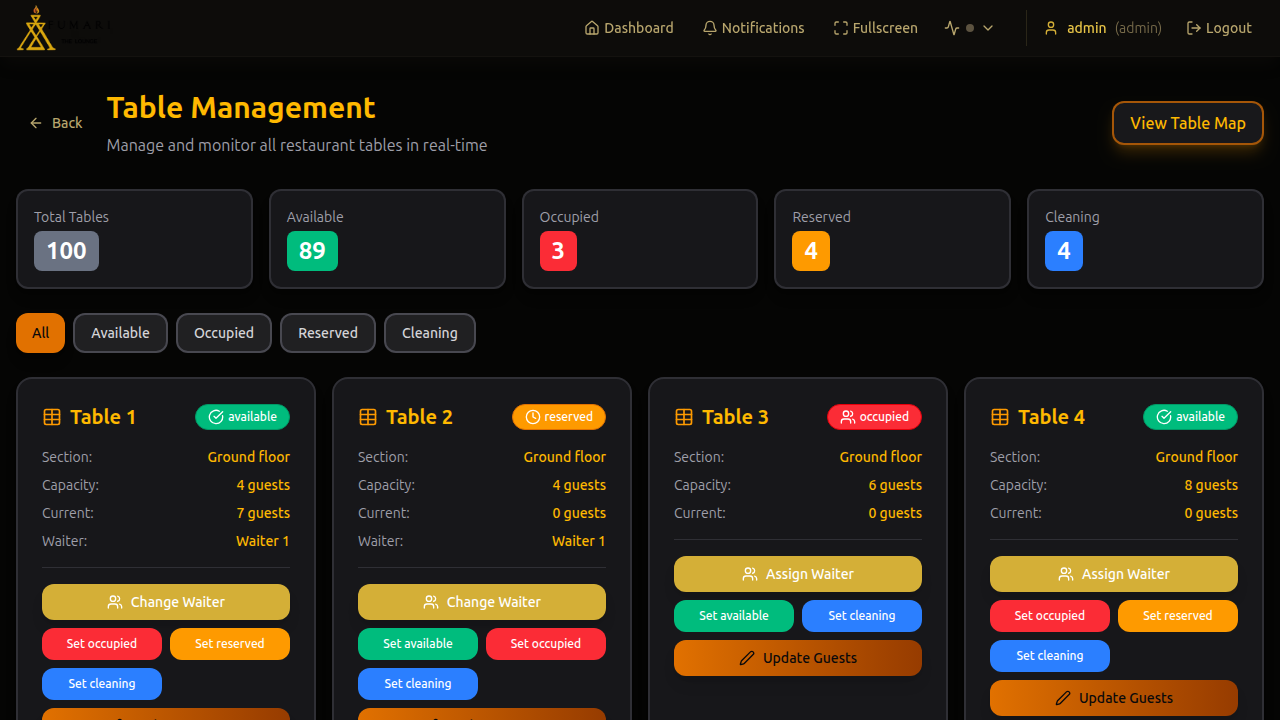
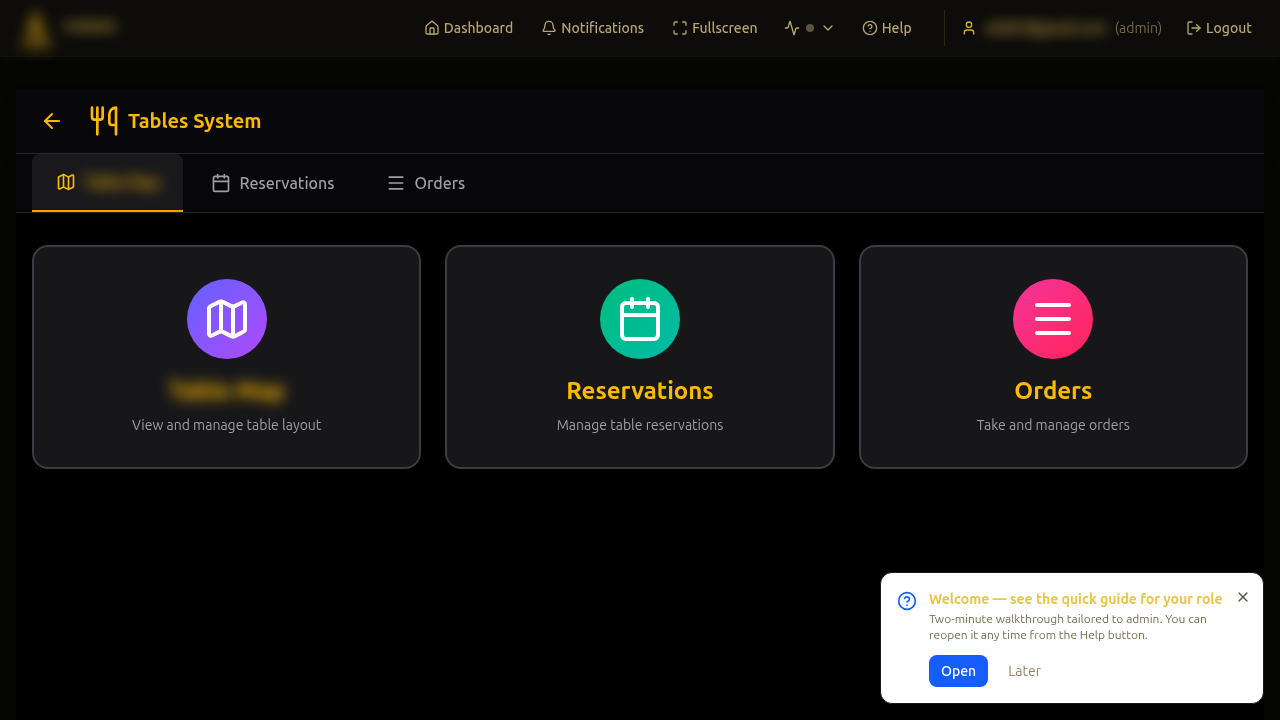
Upgrade Fumari RMS with blurred multi-section demos.
Capture fumarisystem.com dashboards with privacy blur on brand and PII, and expand the case study stack and gallery.

diff --git a/src/content/projects.ts b/src/content/projects.ts
@@ -269,29 +269,90 @@ export const projects: Project[] = [
     shortTitle: "Fumari Restaurant System",
     role: "Full Stack Developer",
     summary:
-      "Restaurant operations platform with authenticated admin dashboards for tables, floor operations, and staff workflows.",
+      "Full venue operations platform: floor tables, orders, multi-area kitchen displays, staff/HR scheduling, and HMRC-oriented accounting — delivered as a PWA on venue Docker Compose with on-LAN thermal printing.",
     problem:
-      "Venues need reliable digital tooling for table management and back-of-house coordination beyond paper floor plans.",
+      "Hospitality venues need one system for service floor, kitchen routing, workforce, payments messaging, and bookkeeping instead of fragmented tills, spreadsheets, and printers.",
     outcome:
-      "Built an authenticated restaurant management dashboard covering tables and operational views for live service environments.",
-    technologies: ["Next.js", "React", "TypeScript", "Auth", "Dashboard UI"],
+      "Shipped Browser/PWA → Next.js (React + API) → PostgreSQL (Prisma), with Stripe/SumUp, Twilio, optional Redis, Cloudflare Tunnel, and an ESC/POS print-agent for thermal printers on the LAN.",
+    technologies: [
+      "Next.js",
+      "React",
+      "TypeScript",
+      "Tailwind CSS",
+      "Zustand",
+      "Prisma",
+      "PostgreSQL",
+      "Zod",
+      "JWT",
+      "Stripe",
+      "SumUp",
+      "Twilio",
+      "Nodemailer",
+      "Recharts",
+      "jsPDF",
+      "Docker",
+      "Cloudflare Tunnel",
+      "Tailscale",
+      "ESC/POS",
+      "Vitest",
+    ],
     features: [
-      "Staff authentication",
-      "Tables / floor dashboard",
-      "Operational admin views",
-      "Hospitality-focused UX",
+      "JWT staff authentication",
+      "Tables / floor system",
+      "Orders and multi-kitchen displays",
+      "Staff, HR, and scheduling",
+      "Accounting and reports",
+      "Stripe / SumUp payments + Twilio SMS",
+      "On-LAN ESC/POS print agent",
+      "Docker Compose venue deployment",
     ],
     images: [
       {
         src: "/projects/fumari-rms/hero.png",
-        alt: "Fumari restaurant management dashboard",
+        alt: "Tables system dashboard",
       },
       {
-        src: "/projects/fumari-rms/screen-2.png",
-        alt: "Fumari tables dashboard view",
+        src: "/projects/fumari-rms/orders.png",
+        alt: "Orders dashboard",
+      },
+      {
+        src: "/projects/fumari-rms/kitchen.png",
+        alt: "Kitchen areas overview",
+      },
+      {
+        src: "/projects/fumari-rms/kitchen-cocktail.png",
+        alt: "Mocktail bar kitchen display",
+      },
+      {
+        src: "/projects/fumari-rms/kitchen-main.png",
+        alt: "Main kitchen display",
+      },
+      {
+        src: "/projects/fumari-rms/kitchen-shisha.png",
+        alt: "Shisha kitchen display",
+      },
+      {
+        src: "/projects/fumari-rms/staff.png",
+        alt: "Staff management",
+      },
+      {
+        src: "/projects/fumari-rms/hr.png",
+        alt: "HR module",
+      },
+      {
+        src: "/projects/fumari-rms/hr-schedule.png",
+        alt: "HR schedule",
+      },
+      {
+        src: "/projects/fumari-rms/accounting.png",
+        alt: "Accounting system",
+      },
+      {
+        src: "/projects/fumari-rms/accounting-reports.png",
+        alt: "Accounting reports",
       },
     ],
-    liveUrl: "https://fumari.vercel.app/dashboard/tables",
+    liveUrl: "https://www.fumarisystem.com/",
     video: {
       src: "/projects/fumari-rms/demo.webm",
       poster: "/projects/fumari-rms/hero.png",